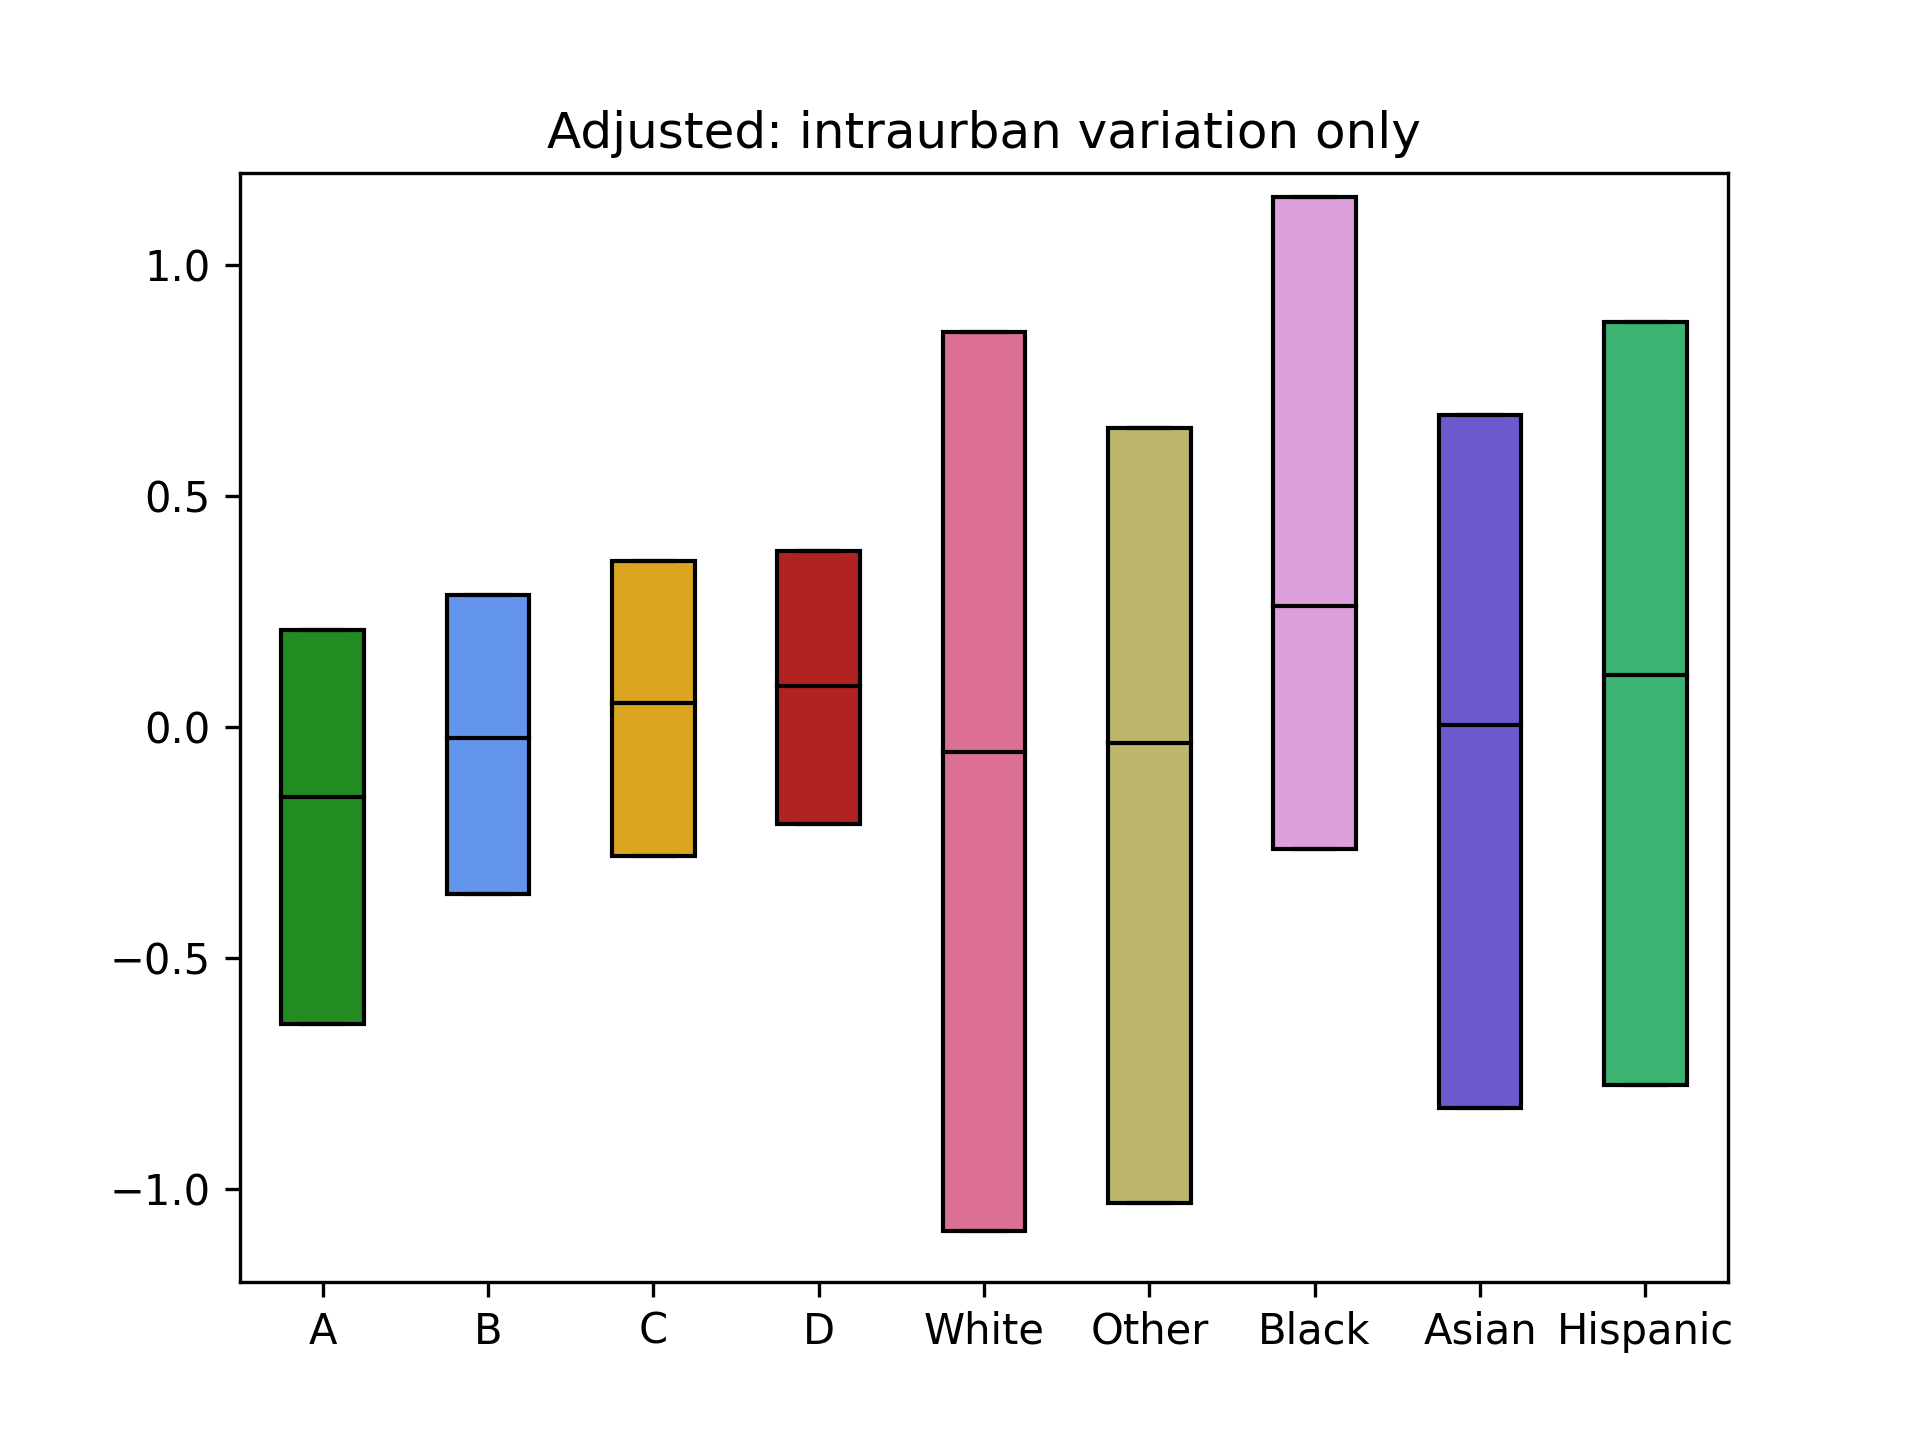
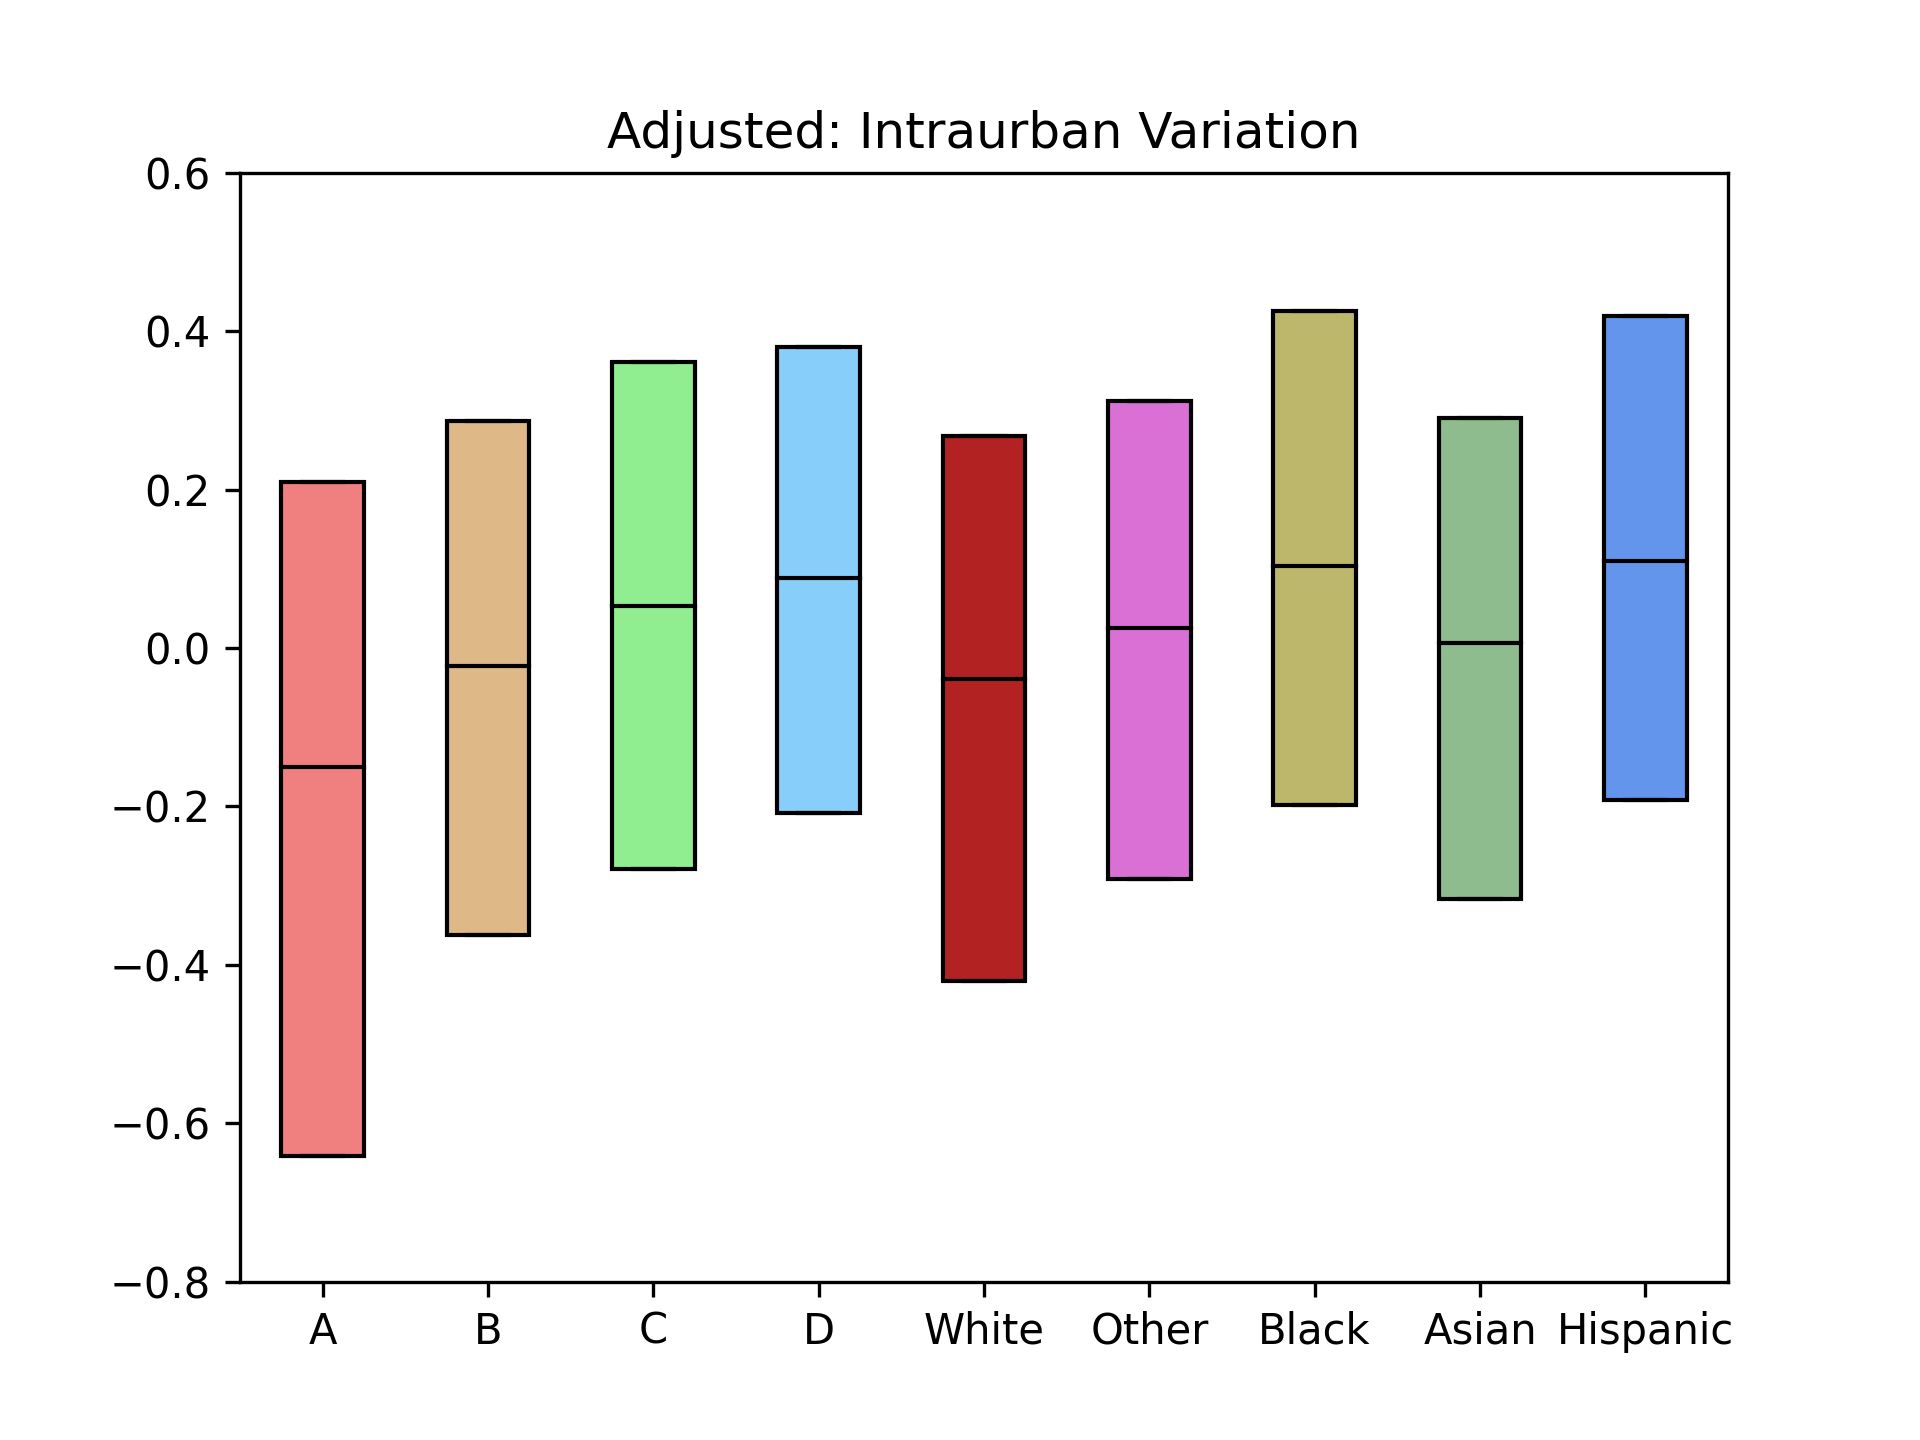
fixed PM25 adjusted plot

diff --git a/pm25-adjusted.py b/pm25-adjusted.py
@@ -42,30 +42,27 @@ for i in df.index:
       pm25_C += (df['Total'][i] * [(df['PM25'][i] - pwms[df['City'][i]])])
    if df['Grade'][i] == 'D':
       pm25_D += (df['Total'][i] * [(df['PM25'][i] - pwms[df['City'][i]])])
-   if df['White'][i] > 0:
+   if df['Grade'][i] != 'N':
       pm25_white += (df['White'][i] * [(df['PM25'][i] - pwms[df['City'][i]])])
-   if df['Other'][i] > 0:
       pm25_other += (df['Other'][i] * [(df['PM25'][i] - pwms[df['City'][i]])])
-   if df['Black'][i] > 0:
       pm25_black += (df['Black'][i] * [(df['PM25'][i] - pwms[df['City'][i]])])
-   if df['Asian'][i] > 0:
       pm25_asian += (df['Asian'][i] * [(df['PM25'][i] - pwms[df['City'][i]])])
-   if df['Hispanic'][i] > 0:
       pm25_hispanic += (df['Hispanic'][i] * [(df['PM25'][i] - pwms[df['City'][i]])])
 
 data = [pm25_A, pm25_B, pm25_C, pm25_D, pm25_white, pm25_other, pm25_black, pm25_asian, pm25_hispanic]
 labels = ['A', 'B', 'C', 'D', 'White', 'Other', 'Black', 'Asian', 'Hispanic']
 
-fig1, ax1 = plt.subplots(nrows = 1, ncols = 1)
-pm25_plot = ax1.boxplot(data, labels = labels, patch_artist = True, showfliers = False, vert = True, whis = 0)
-ax1.set_title('Adjusted: intraurban variation only')
+fig, ax = plt.subplots(nrows = 1, ncols = 1)
+plot = ax.boxplot(data, labels = labels, patch_artist = True, showfliers = False, vert = True, whis = 0)
+ax.set_title('Adjusted: Intraurban Variation')
 
-ax1.set_ylim(-1.2, 1.2)
-for median in pm25_plot['medians']:
+ax.set_ylim(-0.8, 0.6)
+for median in plot['medians']:
    median.set_color('black')
 
-colors = ['forestgreen', 'cornflowerblue', 'goldenrod', 'firebrick', 'palevioletred', 'darkkhaki', 'plum', 'slateblue', 'mediumseagreen']
-for patch, color in zip(pm25_plot['boxes'], colors):
+colors = ['lightcoral', 'burlywood', 'lightgreen', 'lightskyblue',
+          'firebrick', 'orchid', 'darkkhaki', 'darkseagreen', 'cornflowerblue']
+for patch, color in zip(plot['boxes'], colors):
    patch.set_facecolor(color)
 
 plt.savefig('pm25-adjusted.png', dpi = 300)
